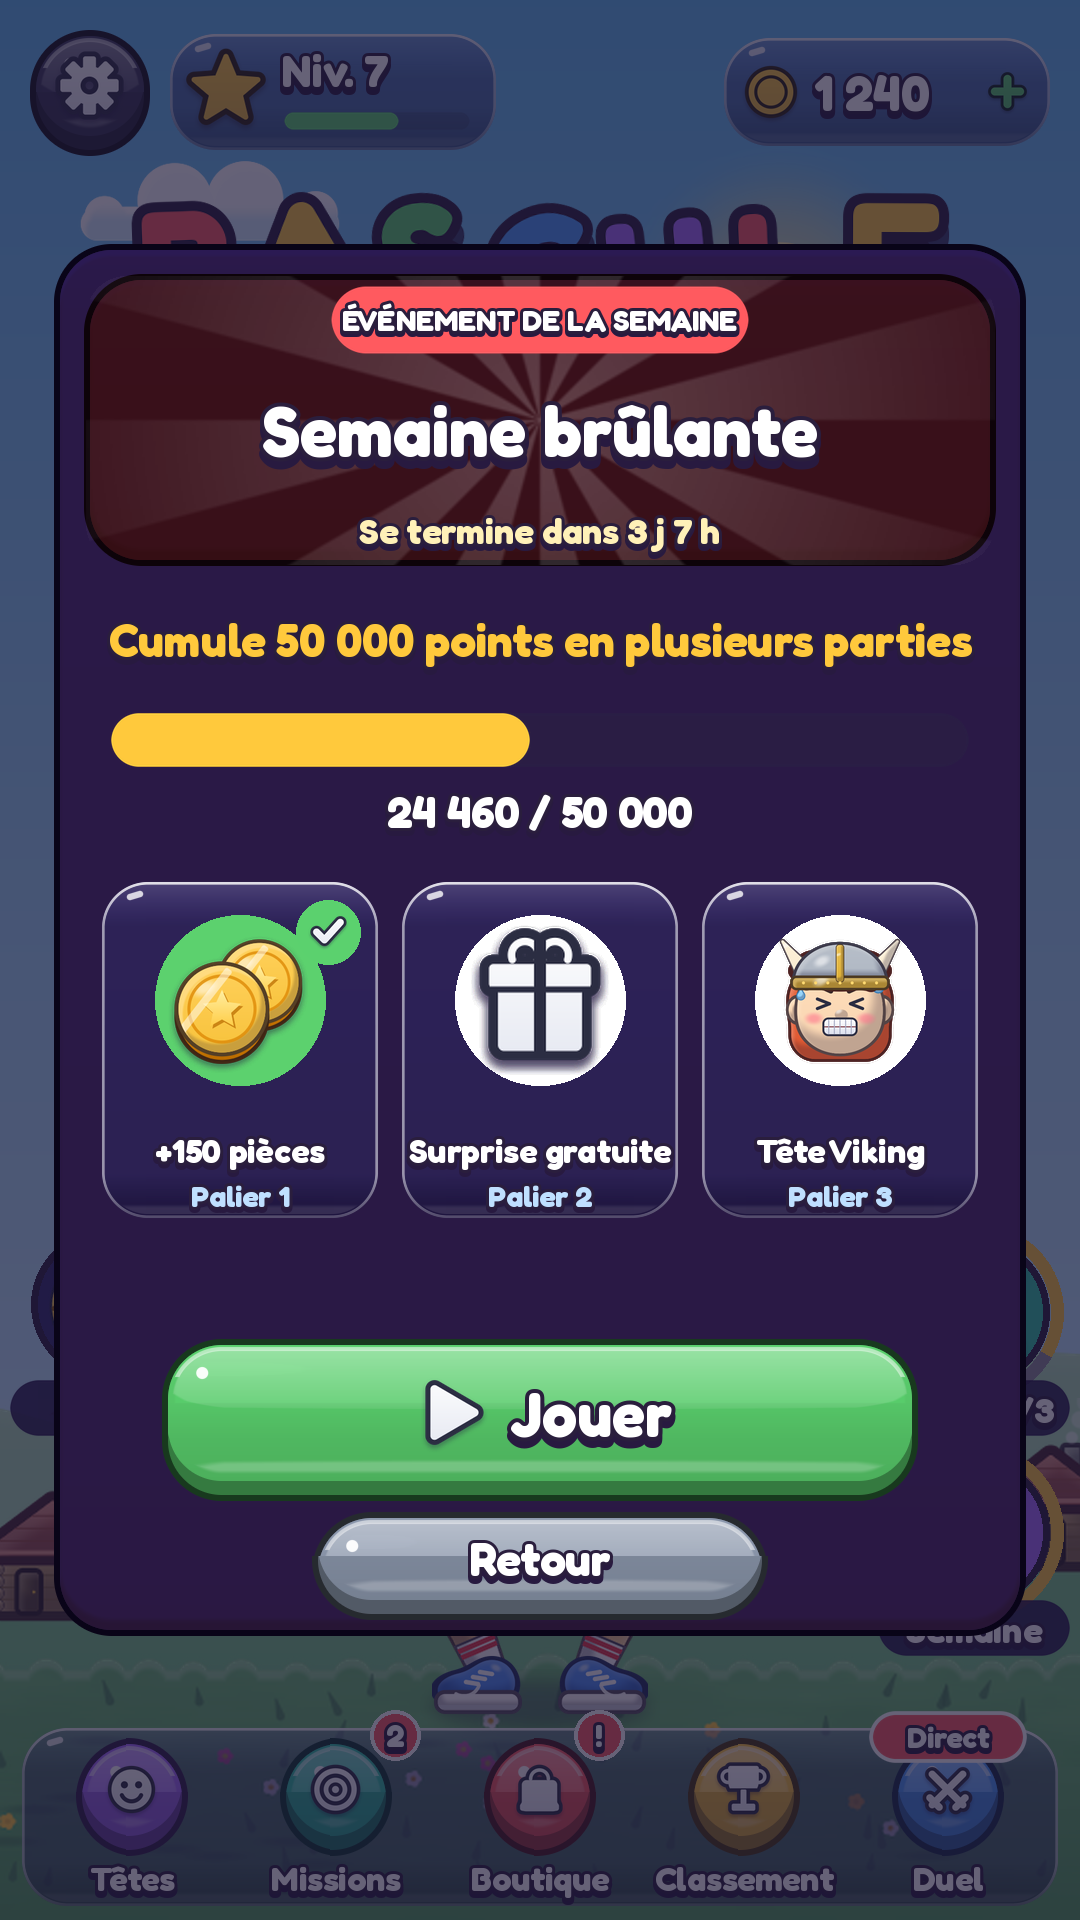
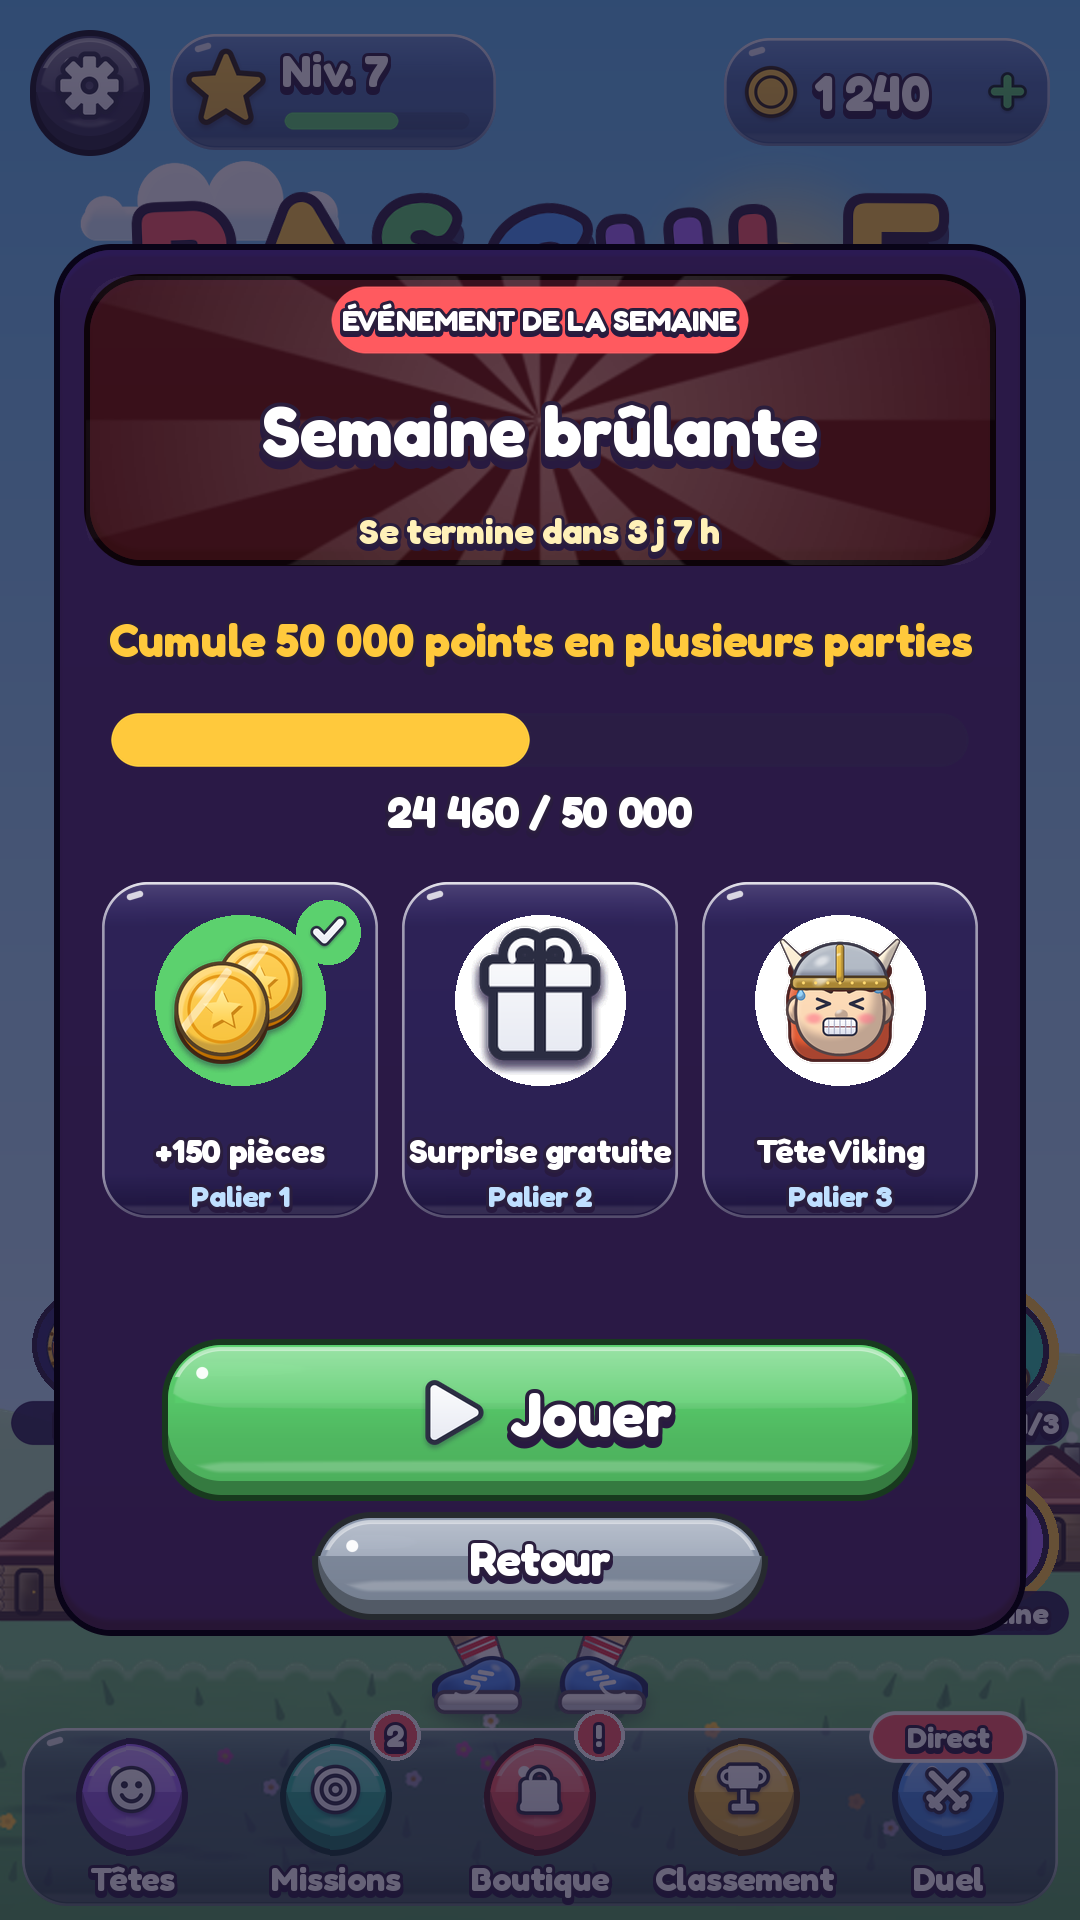
Accueil : roue, quête et semaine en plus petit (médaillons de 112 px au lieu de 150, étiquette et pastille réduites) pour moins gêner visuellement
Claude-Session: https://claude.ai/code/session_01GjF5pVKpWLsxsJrgQmasFX

Changed region(s): [[0.825, 0.625, 1.0, 0.875], [0.0, 0.6562, 0.0611, 0.75]]

diff --git a/Assets/Bascule/Scripts/Runtime/UI/LiveOpsScreens.cs b/Assets/Bascule/Scripts/Runtime/UI/LiveOpsScreens.cs
@@ -15,9 +15,10 @@ namespace Bascule.UI
     /// </summary>
     public sealed class SideWidget
     {
-        public const float Width = 200f, Height = 214f, Medal = 150f;
+        // Compacts : ils signalent le rendez-vous sans voler la vedette à Basile ni au bouton Jouer.
+        public const float Width = 156f, Height = 162f, Medal = 112f, Edge = 88f;
         /// <summary>Hauteurs (depuis le bas de l'écran) des deux rangées : au-dessus du dock, sous la planche.</summary>
-        public const float Row1 = 590f, Row2 = 370f;
+        public const float Row1 = 555f, Row2 = 365f;
 
         public RectTransform Root;
         public Button Button;
@@ -29,15 +30,15 @@ namespace Bascule.UI
         {
             var w = new SideWidget();
             w.Root = Ui.Rect(name, parent);
-            Ui.Place(w.Root, side < 0 ? 0 : 1, 0, side < 0 ? 106 : -106, y, Width, Height);
-            float my = -6f - Medal * 0.5f - (ring ? 8f : 0f); // centre du médaillon, depuis le haut
+            Ui.Place(w.Root, side < 0 ? 0 : 1, 0, side < 0 ? Edge : -Edge, y, Width, Height);
+            float my = -5f - Medal * 0.5f - (ring ? 6f : 0f); // centre du médaillon, depuis le haut
             if (ring)
             {
                 // Anneau d'avancement (événement de la semaine, quête) autour du médaillon.
                 var track = Ui.Image(w.Root, art.Ring, new Color(1f, 1f, 1f, 0.4f), "Piste");
-                Ui.Place(track.rectTransform, 0.5f, 1, 0, my, Medal + 28, Medal + 28);
+                Ui.Place(track.rectTransform, 0.5f, 1, 0, my, Medal + 20, Medal + 20);
                 w.Ring = Ui.Image(w.Root, art.Ring, Palette.Accent, "Anneau");
-                Ui.Place(w.Ring.rectTransform, 0.5f, 1, 0, my, Medal + 28, Medal + 28);
+                Ui.Place(w.Ring.rectTransform, 0.5f, 1, 0, my, Medal + 20, Medal + 20);
                 w.Ring.type = Image.Type.Filled; w.Ring.fillMethod = Image.FillMethod.Radial360; w.Ring.fillOrigin = 2; w.Ring.fillClockwise = true;
             }
             // Médaillon : contour sombre, disque de couleur, reflet clair en haut, dessin au centre.
@@ -45,22 +46,22 @@ namespace Bascule.UI
             Ui.Place(rim.rectTransform, 0.5f, 1, 0, my, Medal, Medal);
             rim.raycastTarget = true;
             var disc = Ui.Image(rim.transform, art.Circle, color, "Fond");
-            Ui.Place(disc.rectTransform, 0.5f, 0.5f, 0, 0, Medal - 14, Medal - 14);
+            Ui.Place(disc.rectTransform, 0.5f, 0.5f, 0, 0, Medal - 11, Medal - 11);
             var shine = Ui.Image(disc.transform, art.SoftDisc, new Color(1f, 1f, 1f, 0.3f), "Reflet");
-            Ui.Place(shine.rectTransform, 0.5f, 1, 0, -6, Medal * 0.72f, Medal * 0.4f, 0.5f, 1);
+            Ui.Place(shine.rectTransform, 0.5f, 1, 0, -4, Medal * 0.72f, Medal * 0.4f, 0.5f, 1);
             var pic = Ui.Icon(disc.transform, picture, "Dessin");
-            Ui.Place(pic.rectTransform, 0.5f, 0.5f, 0, wheel ? -2 : 0, wheel ? Medal - 34 : Medal - 26, wheel ? Medal - 34 : Medal - 26);
+            Ui.Place(pic.rectTransform, 0.5f, 0.5f, 0, wheel ? -2 : 0, wheel ? Medal - 26 : Medal - 20, wheel ? Medal - 26 : Medal - 20);
             if (wheel)
             {
                 // Petite roue qui tourne doucement, avec son moyeu et son repère rouge (qui, eux, ne tournent pas).
                 pic.gameObject.AddComponent<Spin>().Speed = -18f;
                 var hub = Ui.Image(disc.transform, art.Circle, Palette.Outline, "Moyeu");
-                Ui.Place(hub.rectTransform, 0.5f, 0.5f, 0, -2, 34, 34);
+                Ui.Place(hub.rectTransform, 0.5f, 0.5f, 0, -2, 26, 26);
                 var hubIn = Ui.Image(hub.transform, art.Circle, Palette.Accent, "Centre");
-                Ui.Place(hubIn.rectTransform, 0.5f, 0.5f, 0, 0, 24, 24);
+                Ui.Place(hubIn.rectTransform, 0.5f, 0.5f, 0, 0, 18, 18);
                 var pointer = Ui.Icon(rim.transform, art.IconSprite(Icon.Play), "Repere");
                 pointer.color = Palette.Primary;
-                Ui.Place(pointer.rectTransform, 0.5f, 1, 0, 8, 50, 50, 0.5f, 0.5f);
+                Ui.Place(pointer.rectTransform, 0.5f, 1, 0, 6, 38, 38, 0.5f, 0.5f);
                 pointer.rectTransform.localRotation = Quaternion.Euler(0, 0, -90f);
             }
             w.Button = rim.gameObject.AddComponent<Button>();
@@ -70,16 +71,16 @@ namespace Bascule.UI
 
             // Étiquette sombre, lisible sur n'importe quel décor.
             var pill = Ui.Image(w.Root, art.Pill, new Color(0.12f, 0.07f, 0.28f, 0.88f), "Etiquette", true);
-            Ui.Place(pill.rectTransform, 0.5f, 0, 0, 0, Width - 6, 58, 0.5f, 0);
-            w.Label = Ui.Title(pill.transform, "", 36, Color.white, "Legende");
-            Ui.Stretch(w.Label.rectTransform, 12, 2, 12, 4);
+            Ui.Place(pill.rectTransform, 0.5f, 0, 0, 0, Width, 46, 0.5f, 0);
+            w.Label = Ui.Title(pill.transform, "", 30, Color.white, "Legende");
+            Ui.Stretch(w.Label.rectTransform, 10, 2, 10, 3);
 
             // Pastille « ! » sur le coin du médaillon.
             var badge = Ui.Image(rim.transform, art.Circle, Palette.Primary, "Pastille");
-            Ui.Place(badge.rectTransform, 1, 1, -10, -10, 50, 50, 0.5f, 0.5f);
+            Ui.Place(badge.rectTransform, 1, 1, -8, -8, 40, 40, 0.5f, 0.5f);
             var o = badge.gameObject.AddComponent<Outline>();
             o.effectColor = Color.white; o.effectDistance = new Vector2(3, -3);
-            var t = Ui.Title(badge.transform, "!", 34);
+            var t = Ui.Title(badge.transform, "!", 28);
             Ui.Stretch(t.rectTransform, 0, 0, 0, 3);
             badge.gameObject.AddComponent<Pulse>().Amount = 0.1f;
             w.Badge = badge.gameObject;
@@ -89,7 +90,7 @@ namespace Bascule.UI
 
         /// <summary>Change de rangée (l'événement monte à la place de la quête une fois celle-ci finie).</summary>
         public void MoveTo(float side, float y) =>
-            Ui.Place(Root, side < 0 ? 0 : 1, 0, side < 0 ? 106 : -106, y, Width, Height);
+            Ui.Place(Root, side < 0 ? 0 : 1, 0, side < 0 ? Edge : -Edge, y, Width, Height);
     }
 
     // ===================================================================== Roue de la chance

diff --git a/Tools/screens_preview_v14.py b/Tools/screens_preview_v14.py
@@ -447,44 +447,48 @@ def shop_video():
 # ============================================================================ Roue, quête, événement, accueil
 
 # SideWidget (LiveOpsScreens.cs) : médaillon rond + dessin en couleur, anneau doré, étiquette sombre, ancré en bas.
-WIDGET_W, WIDGET_H, MEDAL, ROW1, ROW2 = 200, 214, 150, 590, 370
+WIDGET_W, WIDGET_H, MEDAL, EDGE, ROW1, ROW2 = 156, 162, 112, 88, 555, 365
 
 
 def side_widget(img, side, y, picture, color, label, ring=None, badge_on=False, wheel=False):
-    r = sp.place(0 if side < 0 else 1, 0, 106 if side < 0 else -106, y, WIDGET_W, WIDGET_H)
+    r = sp.place(0 if side < 0 else 1, 0, EDGE if side < 0 else -EDGE, y, WIDGET_W, WIDGET_H)
     cx = (r[0] + r[2]) / 2
-    my = r[1] + 6 + MEDAL / 2 + (8 if ring is not None else 0)
+    my = r[1] + 5 + MEDAL / 2 + (6 if ring is not None else 0)
     d = ImageDraw.Draw(img)
     if ring is not None:
-        rr = (MEDAL + 28) / 2
+        rr = (MEDAL + 20) / 2
         bb = (cx - rr, my - rr, cx + rr, my + rr)
-        d.ellipse(bb, outline=(255, 255, 255, 102), width=13)
-        d.arc(bb, -90, -90 + 360 * ring, fill=c("Accent"), width=13)
+        d.ellipse(bb, outline=(255, 255, 255, 102), width=10)
+        d.arc(bb, -90, -90 + 360 * ring, fill=c("Accent"), width=10)
     m = MEDAL / 2
     disc(img, (cx - m, my - m, cx + m, my + m), sp.OUTLINE)
-    m2 = m - 7
+    m2 = (MEDAL - 11) / 2
     disc(img, (cx - m2, my - m2, cx + m2, my + m2), c(color) if color in sp.COL else sp.rgb(color))
-    glow(img, (cx - MEDAL * 0.3, my - m2 + 6, cx + MEDAL * 0.3, my - m2 + 6 + MEDAL * 0.3), (255, 255, 255, 70), 14)
-    ps = MEDAL - (34 if wheel else 26)
+    glow(img, (cx - MEDAL * 0.3, my - m2 + 5, cx + MEDAL * 0.3, my - m2 + 5 + MEDAL * 0.3), (255, 255, 255, 70), 10)
+    ps = MEDAL - (26 if wheel else 20)
     pic = sp.load(picture).resize((ps, ps), Image.LANCZOS)
     if wheel:
         pic = pic.rotate(14, resample=Image.BICUBIC)
     img.alpha_composite(pic, (int(cx - ps / 2), int(my - ps / 2 + (2 if wheel else 0))))
     if wheel:
-        disc(img, (cx - 17, my - 15, cx + 17, my + 19), sp.OUTLINE)
-        disc(img, (cx - 12, my - 10, cx + 12, my + 14), c("Accent"))
-        pt = Image.new("RGBA", (50, 50), (0, 0, 0, 0))
-        sp.tinted_icon(pt, "Play", (0, 0, 50, 50), "Primary")
+        disc(img, (cx - 13, my - 11, cx + 13, my + 15), sp.OUTLINE)
+        disc(img, (cx - 9, my - 7, cx + 9, my + 11), c("Accent"))
+        pt = Image.new("RGBA", (38, 38), (0, 0, 0, 0))
+        sp.tinted_icon(pt, "Play", (0, 0, 38, 38), "Primary")
         pt = pt.rotate(-90)
-        img.alpha_composite(pt, (int(cx - 25), int(my - m - 8 - 25)))
+        img.alpha_composite(pt, (int(cx - 19), int(my - m - 6 - 19)))
     if badge_on:
-        bx, by = cx + m - 10, my - m + 10
-        disc(img, (bx - 28, by - 28, bx + 28, by + 28), (255, 255, 255))
-        disc(img, (bx - 25, by - 25, bx + 25, by + 25), c("Primary"))
-        sp.title(img, "!", (bx - 25, by - 25, bx + 25, by + 22), 34)
-    lb = (cx - (WIDGET_W - 6) / 2, r[3] - 58, cx + (WIDGET_W - 6) / 2, r[3])
+        bx, by = cx + m - 8, my - m + 8
+        disc(img, (bx - 23, by - 23, bx + 23, by + 23), (255, 255, 255))
+        disc(img, (bx - 20, by - 20, bx + 20, by + 20), c("Primary"))
+        sp.title(img, "!", (bx - 20, by - 20, bx + 20, by + 17), 28)
+    lb = (cx - WIDGET_W / 2, r[3] - 46, cx + WIDGET_W / 2, r[3])
     sp.pill(img, lb, color=(31, 18, 71, 224))
-    sp.title(img, label, (lb[0] + 12, lb[1] + 4, lb[2] - 12, lb[3] - 2), 36)
+    tb = (lb[0] + 10, lb[1] + 3, lb[2] - 10, lb[3] - 2)
+    f = 30
+    while ImageDraw.Draw(img).textlength(label, font=sp.font(f)) > tb[2] - tb[0] and f > 20:
+        f -= 1
+    sp.title(img, label, tb, f)
 
 
 def home_widgets():

diff --git a/docs/VERSIONS.md b/docs/VERSIONS.md
@@ -27,7 +27,7 @@ Chaque zip porte son numéro (Bascule_V3.zip = version 3.0, affichée dans Régl
 - **Le 128 expliqué** : dès le premier 64 d'une partie, « Un 64 ! Fusionne-le avec un autre 64 : le 128 s'envole et rapporte +984 points » (sur 3 parties, tant que le joueur n'a jamais fait de 128) ; le tutoriel finit par « Monte jusqu'au 128 » ; à chaque envol, grande bannière dorée **« MONTGOLFIÈRE ! +984 points d'un coup »** sous la planche (`UI/BalloonBanner.cs`, aperçu `ecran_montgolfiere.png`), et au premier 128 : « Le 128 est le plus gros coup du jeu : refais-en pour exploser ton record ! ».
 - **Roue réorganisée** : chaque lot en image au milieu de sa part, son nom près du bord doré (là où la part est la plus large). Vraies pièces d'or dessinées (`UiArtist.CoinPile`) : 1 pièce pour 50, 2 pour 100, un tas de 3 pour 250, 6 pour le jackpot ; « Boost » = une pièce marquée ×2 ; « Série » = flamme. Au gain, une pluie de pièces jaillit du lot (6 pour 50, 10 pour 100, 18 pour 250, 28 pour le jackpot).
 - **Événement de la semaine plus long** : 50 000 points à cumuler (au lieu de 15 000), ou 900 fusions, 30 parties, 1 200 poids posés, 40 min de tenue (même difficulté, environ 25 à 30 parties). « Semaine du volcan » devient **« Semaine brûlante »**.
-- **Rendez-vous de l'accueil redessinés** : médaillons ronds avec un dessin en couleur (petite roue qui tourne avec son repère rouge, bloc-notes coché, calendrier étoilé), anneau d'avancement doré, étiquette sombre. Rangés sur les côtés sous la planche de Basile, ancrés en bas (ils ne touchent plus le record, « Reprendre » ni « Jouer », sur tous les écrans) : la roue à gauche, la quête à droite, l'événement dessous (puis à sa place une fois la quête finie).
+- **Rendez-vous de l'accueil redessinés** : petits médaillons ronds (112 px, discrets) avec un dessin en couleur (petite roue qui tourne avec son repère rouge, bloc-notes coché, calendrier étoilé), anneau d'avancement doré, étiquette sombre. Rangés sur les côtés sous la planche de Basile, ancrés en bas (ils ne touchent plus le record, « Reprendre » ni « Jouer », sur tous les écrans) : la roue à gauche, la quête à droite, l'événement dessous (puis à sa place une fois la quête finie).
 - **« Noter Bascule »** dans Réglages → Aide : ouvre directement la page « Écrire un avis » de l'App Store.
 - Maquettes : le bouton Duel porte « Direct » (plus « Bientôt »).
 - **Décors plus tôt** (`Difficulty.ThemeScores`) : la plupart des parties s'arrêtent avant 8 000, les 20 000 sont rares. Prairie au fil de la journée jusqu'à 1 800, puis plage 2 500, forêt 3 300, désert 4 200, montagne 5 200, ville 6 300, ville la nuit 7 500, volcan 9 500, banquise 12 000, Lune 15 000 ; au-delà de 18 000, mondes déjà vus recolorés tous les 2 500 points. La difficulté ne change pas (elle ne dépend pas du décor).
